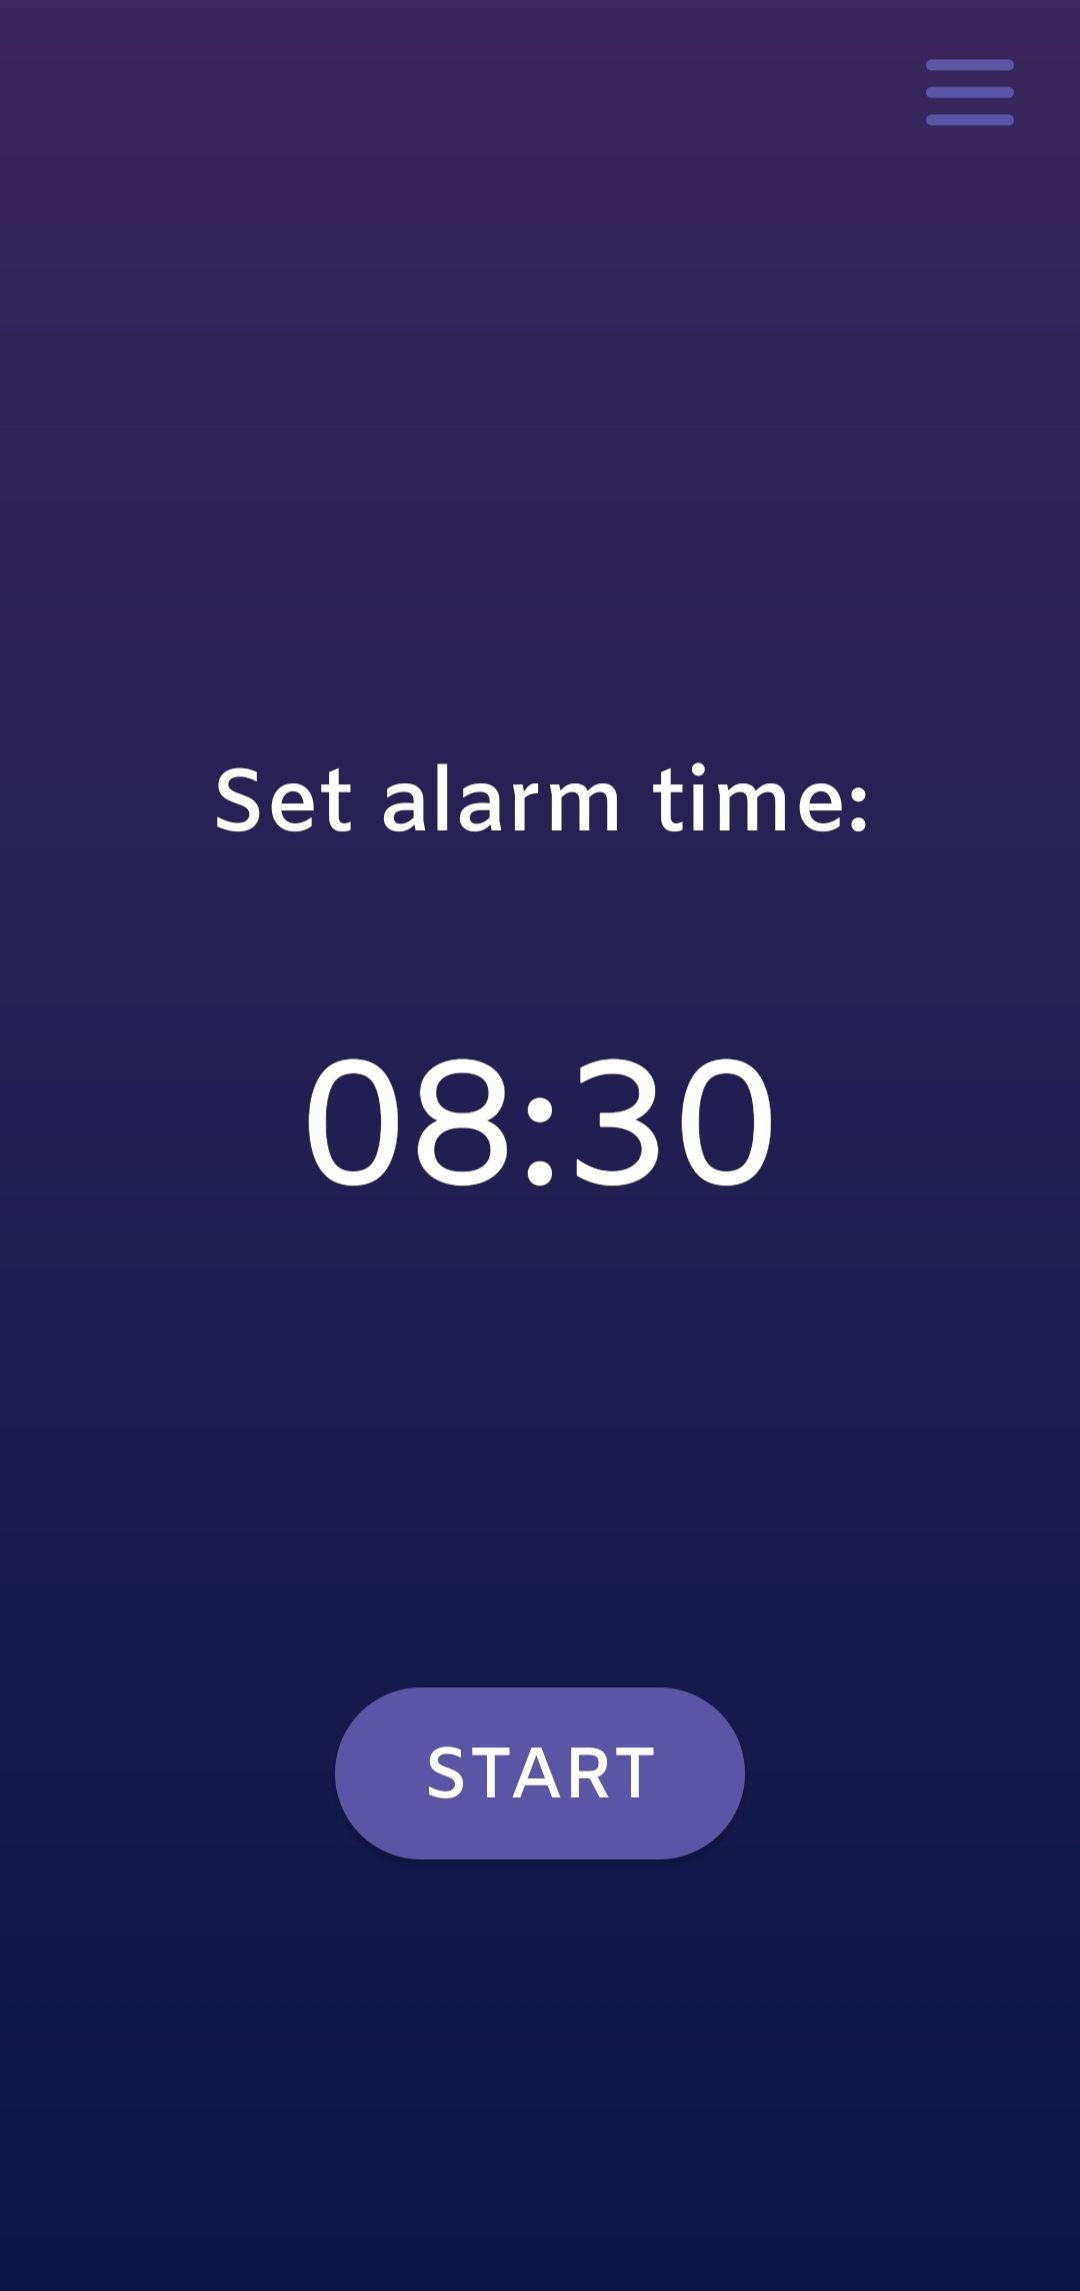
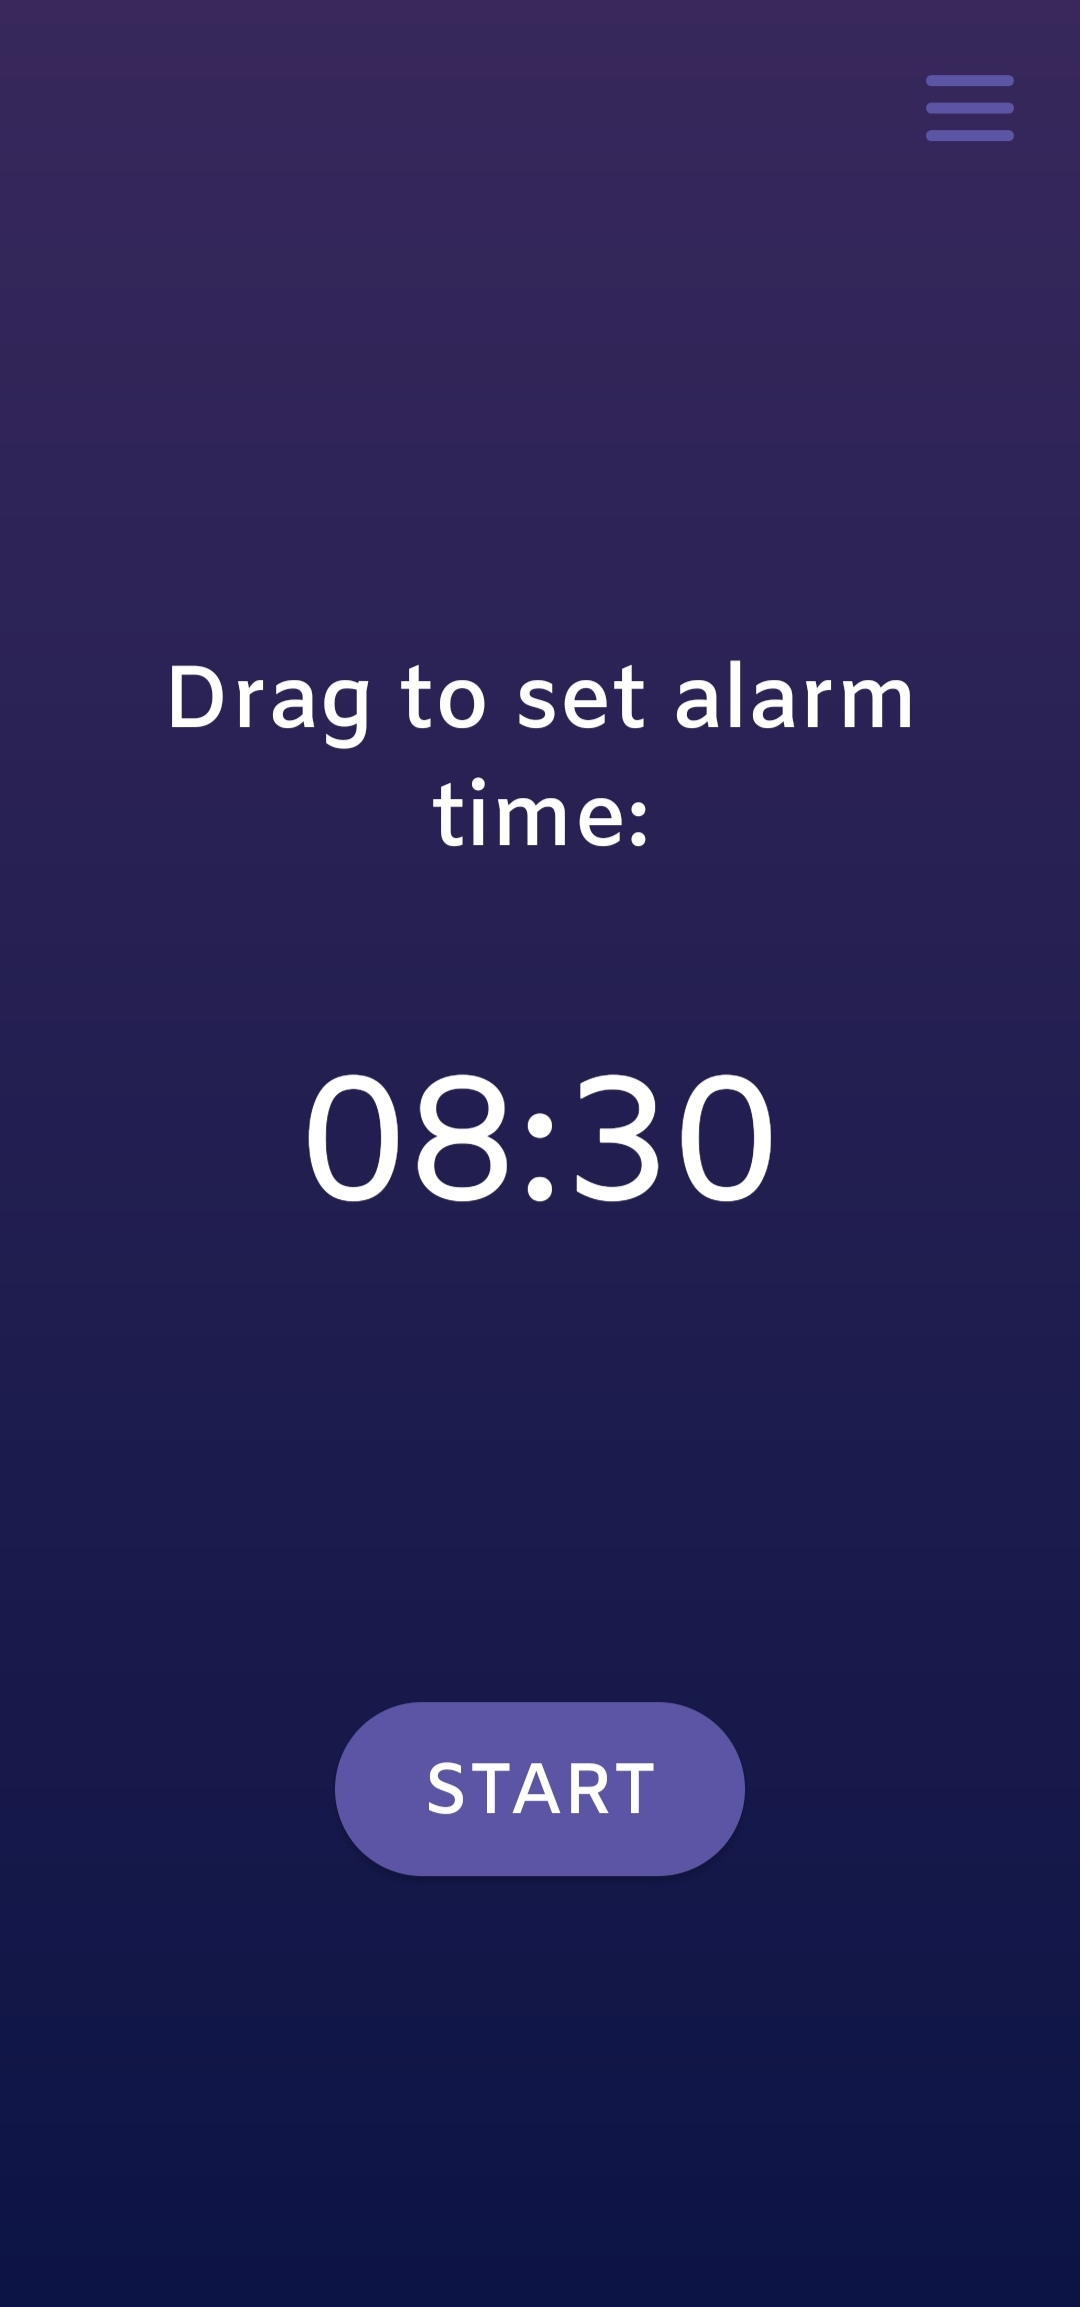
The text on the HomeScreen now tells the user how to change the alarm time (by dragging)

diff --git a/app/src/main/java/com/sweak/qralarm/ui/screens/home/HomeScreen.kt b/app/src/main/java/com/sweak/qralarm/ui/screens/home/HomeScreen.kt
@@ -31,6 +31,7 @@ import androidx.compose.ui.platform.LocalDensity
 import androidx.compose.ui.res.painterResource
 import androidx.compose.ui.res.stringResource
 import androidx.compose.ui.text.font.FontWeight
+import androidx.compose.ui.text.style.TextAlign
 import androidx.compose.ui.unit.IntOffset
 import androidx.compose.ui.unit.dp
 import androidx.compose.ui.unit.sp
@@ -144,11 +145,17 @@ fun HomeScreen(
 
         Text(
             text = if (uiState.value.alarmSet) stringResource(R.string.alarm_at) else stringResource(
-                R.string.set_alarm
+                R.string.drag_to_set_alarm
             ),
             modifier = Modifier
                 .layoutId("alarmAtText")
-                .padding(0.dp, 0.dp, 0.dp, 56.dp),
+                .padding(
+                    MaterialTheme.space.medium,
+                    0.dp,
+                    MaterialTheme.space.medium,
+                    56.dp
+                ),
+            textAlign = TextAlign.Center,
             fontSize = 32.sp,
             fontFamily = amikoFamily,
             fontWeight = FontWeight.SemiBold
